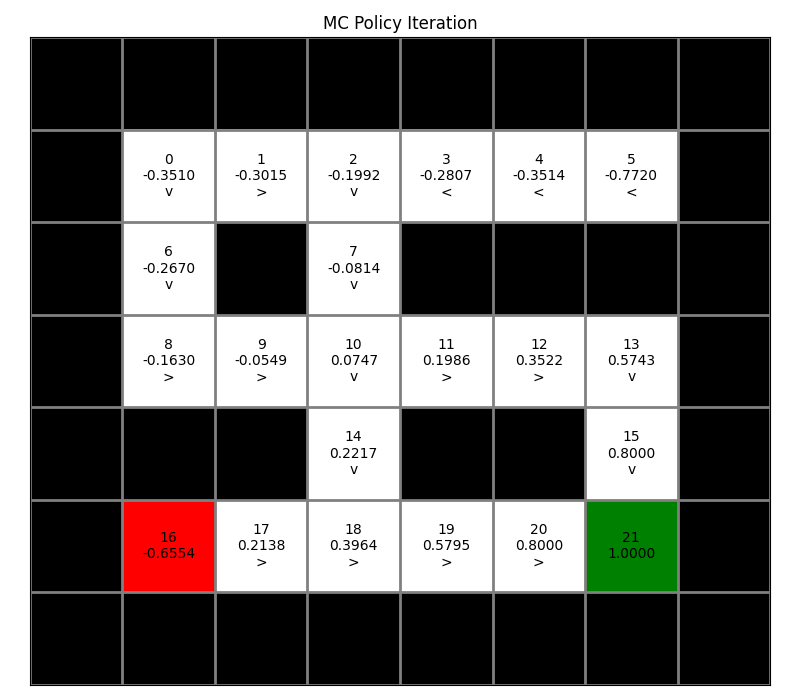
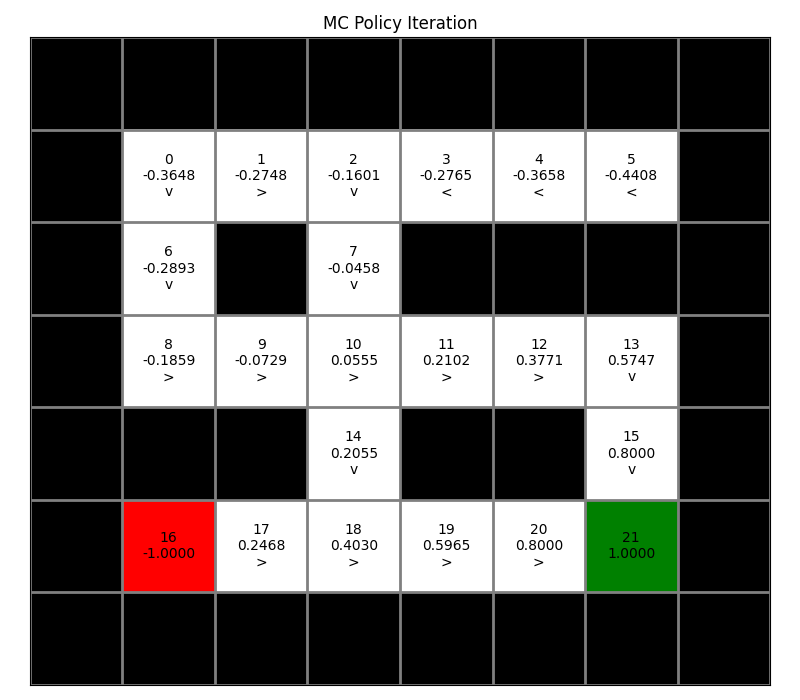
hw2 TA's updates

diff --git a/hw2/main.py b/hw2/main.py
@@ -46,14 +46,14 @@ def red(s):
     return "\033[91m" + str(s) + "\033[0m"
 
 
-def init_grid_world(maze_file: str = "maze.txt"):
+def init_grid_world(maze_file: str = "maze.txt", init_pos: list = None):
     print(bold(underline("Grid World")))
     grid_world = GridWorld(
         maze_file,
         step_reward=STEP_REWARD,
         goal_reward=GOAL_REWARD,
         trap_reward=TRAP_REWARD,
-        init_pos=INIT_POS,
+        init_pos=init_pos,
     )
     grid_world.print_maze()
     grid_world.visualize(title="Maze", filename="maze.png", show=False)
@@ -210,13 +210,14 @@ def run_Q_Learning(grid_world: GridWorld, iter_num: int):
 
 if __name__ == "__main__":
     seed = 1
-    grid_world = init_grid_world("maze.txt")
+    grid_world = init_grid_world("maze.txt",INIT_POS)
     # 2-1
     run_MC_prediction(grid_world,seed)
     run_TD_prediction(grid_world,seed)
     run_NstepTD_prediction(grid_world,seed)
 
-    # # 2-2
+    # 2-2
+    grid_world = init_grid_world("maze.txt")
     run_MC_policy_iteration(grid_world, 512000)
     run_SARSA(grid_world, 512000)
     run_Q_Learning(grid_world, 50000)

diff --git a/hw2/gridworld.py b/hw2/gridworld.py
@@ -202,7 +202,10 @@ class GridWorld:
 
     def reset(self) -> int:
         """Reset the current step"""
-        self.__current_state = self.__init_pos_list[np.random.randint(len(self.__init_pos_list))]
+        if self.__init_pos_list:
+            self.__current_state = self.__init_pos_list[np.random.randint(len(self.__init_pos_list))]
+        else:
+            self.__current_state = np.random.randint(len(self.__state_list))
         return self.__current_state
 
     def reset_step_count(self):
